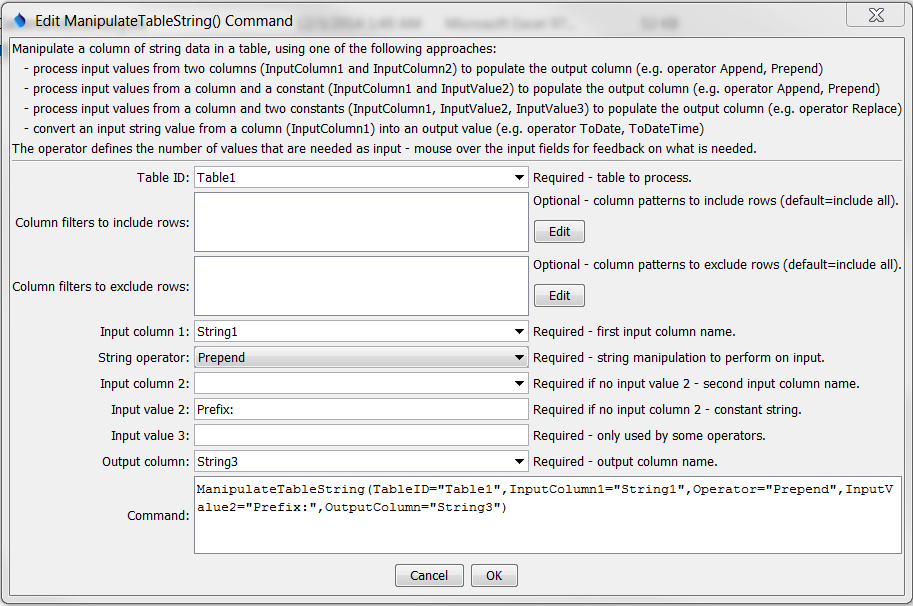
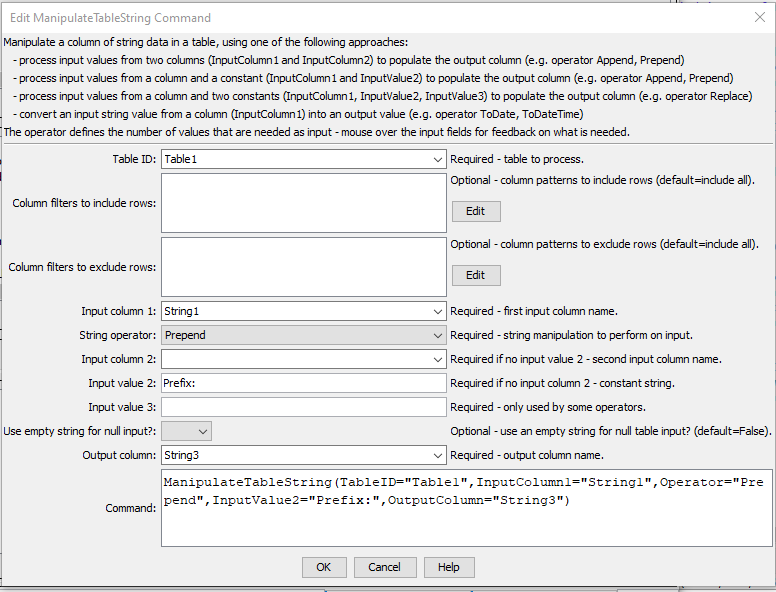
Update the ManipulateTableString documentation for Copy, issue #176
Also add ToBoolean and ToLong operators and UseEmptyStringForNullInput parameter.

diff --git a/mkdocs-project/docs/command-ref/ManipulateTableString/ManipulateTableString.md b/mkdocs-project/docs/command-ref/ManipulateTableString/ManipulateTableString.md
@@ -12,8 +12,10 @@
 ## Overview ##
 
 The `ManipulateTableString` command manipulates a string column in a table.
-For example, it may be necessary to manipulate strings in a table in order to
-match time series identifier parts, so that lookups can occur.  The input is specified by:
+For example, it may be necessary to manipulate strings in a table to
+match time series identifier parts, so that lookups can occur,
+or to ensure that missing data are filled.
+The input is specified by:
 
 *   a table column name (`InputColumn1`)
 *   optionally, either a second input column name (`InputColumn2`) or a constant string value (`InputValue2`), depending on operator
@@ -22,6 +24,9 @@ match time series identifier parts, so that lookups can occur.  The input is spe
 The result is placed in the output column (`OutputColumn`).
 Missing/blank input will be considered as empty strings when formatting the output.
 The output column can be the same as an existing table column.
+
+If table input values are null, the default is to set the output to null.
+Use `UseEmptyStringForNullInput=True` to ensure that table input values are not null.
 
 ## Command Editor ##
 
@@ -50,7 +55,7 @@ ManipulateTableString(Parameter="Value",...)
 Command Parameters
 </p>**
 
-| **Parameter**&nbsp;&nbsp;&nbsp;&nbsp;&nbsp;&nbsp;&nbsp;&nbsp;&nbsp;&nbsp;&nbsp;&nbsp;&nbsp;&nbsp;&nbsp;&nbsp;&nbsp;&nbsp;&nbsp;&nbsp;&nbsp;&nbsp;&nbsp;&nbsp;&nbsp;&nbsp; | **Description** | **Default**&nbsp;&nbsp;&nbsp;&nbsp;&nbsp;&nbsp;&nbsp;&nbsp;&nbsp;&nbsp; |
+| **Parameter**&nbsp;&nbsp;&nbsp;&nbsp;&nbsp;&nbsp;&nbsp;&nbsp;&nbsp;&nbsp;&nbsp;&nbsp;&nbsp;&nbsp;&nbsp;&nbsp;&nbsp;&nbsp;&nbsp;&nbsp;&nbsp;&nbsp;&nbsp;&nbsp;&nbsp;&nbsp;&nbsp;&nbsp;&nbsp;&nbsp;&nbsp;&nbsp;&nbsp;&nbsp;&nbsp;&nbsp;&nbsp;&nbsp; | **Description** | **Default**&nbsp;&nbsp;&nbsp;&nbsp;&nbsp;&nbsp;&nbsp;&nbsp;&nbsp;&nbsp; |
 | --------------|-----------------|----------------- |
 |`TableID`|The identifier for the table to process.  Can be specified with `${Property}` notation.|None – must be specified.|
 |`ColumnIncludeFilters`|Specify values to match to include rows using syntax: `Column1:Value1,Column2,Value2`, where values can use `*` for wildcard.  All values must be matched to include a row.  Can be specified with `${Property}` notation.|Include all rows.|
@@ -60,7 +65,8 @@ Command Parameters
 |`InputColumn2`|The name of a column containing strings, as the second input.  Can be specified with `${Property}` notation.|Required if a 2nd input value is needed no `InputValue2`.|
 |`InputValue2`|A string constant, as the second input.  Can be specified with `${Property}` notation.  Specific requirements for `Operator` are:<ul><li>`Remove` - string or expression in input to remove:<ul><li>combination of `^` to indicate start of line, `$` to indicate end of line, `\$` to match a dollar sign, `\s` to indicate a space, and character pattern to remove</li><li>`[ABC]` - a list of characters to remove from input</li></ul></li><li>`Replace` -  string or expression in input to remove<ul><li>combination of `^` to indicate start of line, `$` to indicate end of line, `\$` to match a dollar sign, `\s` to indicate a space, and character pattern to remove</li></li></ul></ul>|Required if a 2nd input value is needed and no `InputColumn2`.|
 |`InputValue3`|A string constant, as the third input.  Can be specified with `${Property}` notation.  See note for `InputValue2` for `Replace` operator.|Required if a 3rd input value is needed.|
-|`OutputColumn`|The name of a column to receive the output.  Can be specified with `${Property}` notation.|None – must be specified.|
+|`UseEmptyStringForNullInput` | If `True` set null input from table cell values to an empty string. | `False` |
+|`OutputColumn`|The name of a column to receive the output.  The output column can be the same as one of the input columns to update a column. Can be specified with `${Property}` notation.|None – must be specified.|
 
 The following table describes the `Operator` parameter and additional  parameters that are needed for each operator.
 
@@ -71,15 +77,18 @@ Operators and Parameter Requirements
 |**Operator**&nbsp;&nbsp;&nbsp;&nbsp;&nbsp;&nbsp;&nbsp;&nbsp;&nbsp;&nbsp;|**Description and Required Parameters**|
 | --|--|
 |`Append` | Append the second input to the first input (requires 2 inputs). |
+|`Copy` | Copy the first input to the output (requires 1 input). |
 |`Prepend` | Prepend the second input before the first input (requires 2 inputs). |
 |`Replace` | Start with the first input, replace the substring indicated by the second input with that of the third input (requires 3 inputs). |
 |`Remove` | Start with the first input, remove the substring indicated by the second input (requires 2 inputs). |
 |`Split` | Split string by delimiter and output part. `InputValue2` is the delimiter character and `InputValue3` is the part to output (1+). |
 |`Substring` | Split out a substring from the first input, where:<ul><li>the second input is the starting character position (1+), or specify a negative number for the number of characters from the end of the string</li><li>and the optional third input is the ending character position (1+), or specify a negative number for the number of characters from the end of the string</li></ul> This operator requires 2 or 3 inputs. |
+|`ToBoolean` | Convert the first input to a boolean object. Input can be `true` or `false` (any case), or 0 or 1 (as string, integer, or long integer). |
 |`ToDate` | Convert the first input to a DateTime object with date precision. |
 |`ToDateTime` | Convert the first input to a DateTime object. |
 |`ToDouble` | Convert the first input to a double precision object. |
 |`ToInteger` | Convert the first input to an integer object.  If the input string contains a floating point number, the number will be rounded. |
+|`ToLong` | Convert the first input to a long integer object.  If the input string contains a floating point number, the number will be rounded. |
 |`ToLowerCase` | Convert the string to lower case. |
 |`ToMixedCase` | Convert the string to mixed case, where the first letter of each word is capitalized and other characters are lowercase (e.g., `Mixed Case`). Words are separated by whitespace.  Words that are concatenated are treated as one word (e.g., `Mixedcase` because the command does not know that `case` is a separate word).|
 |`ToUpperCase` | Convert the string to upper case. |
